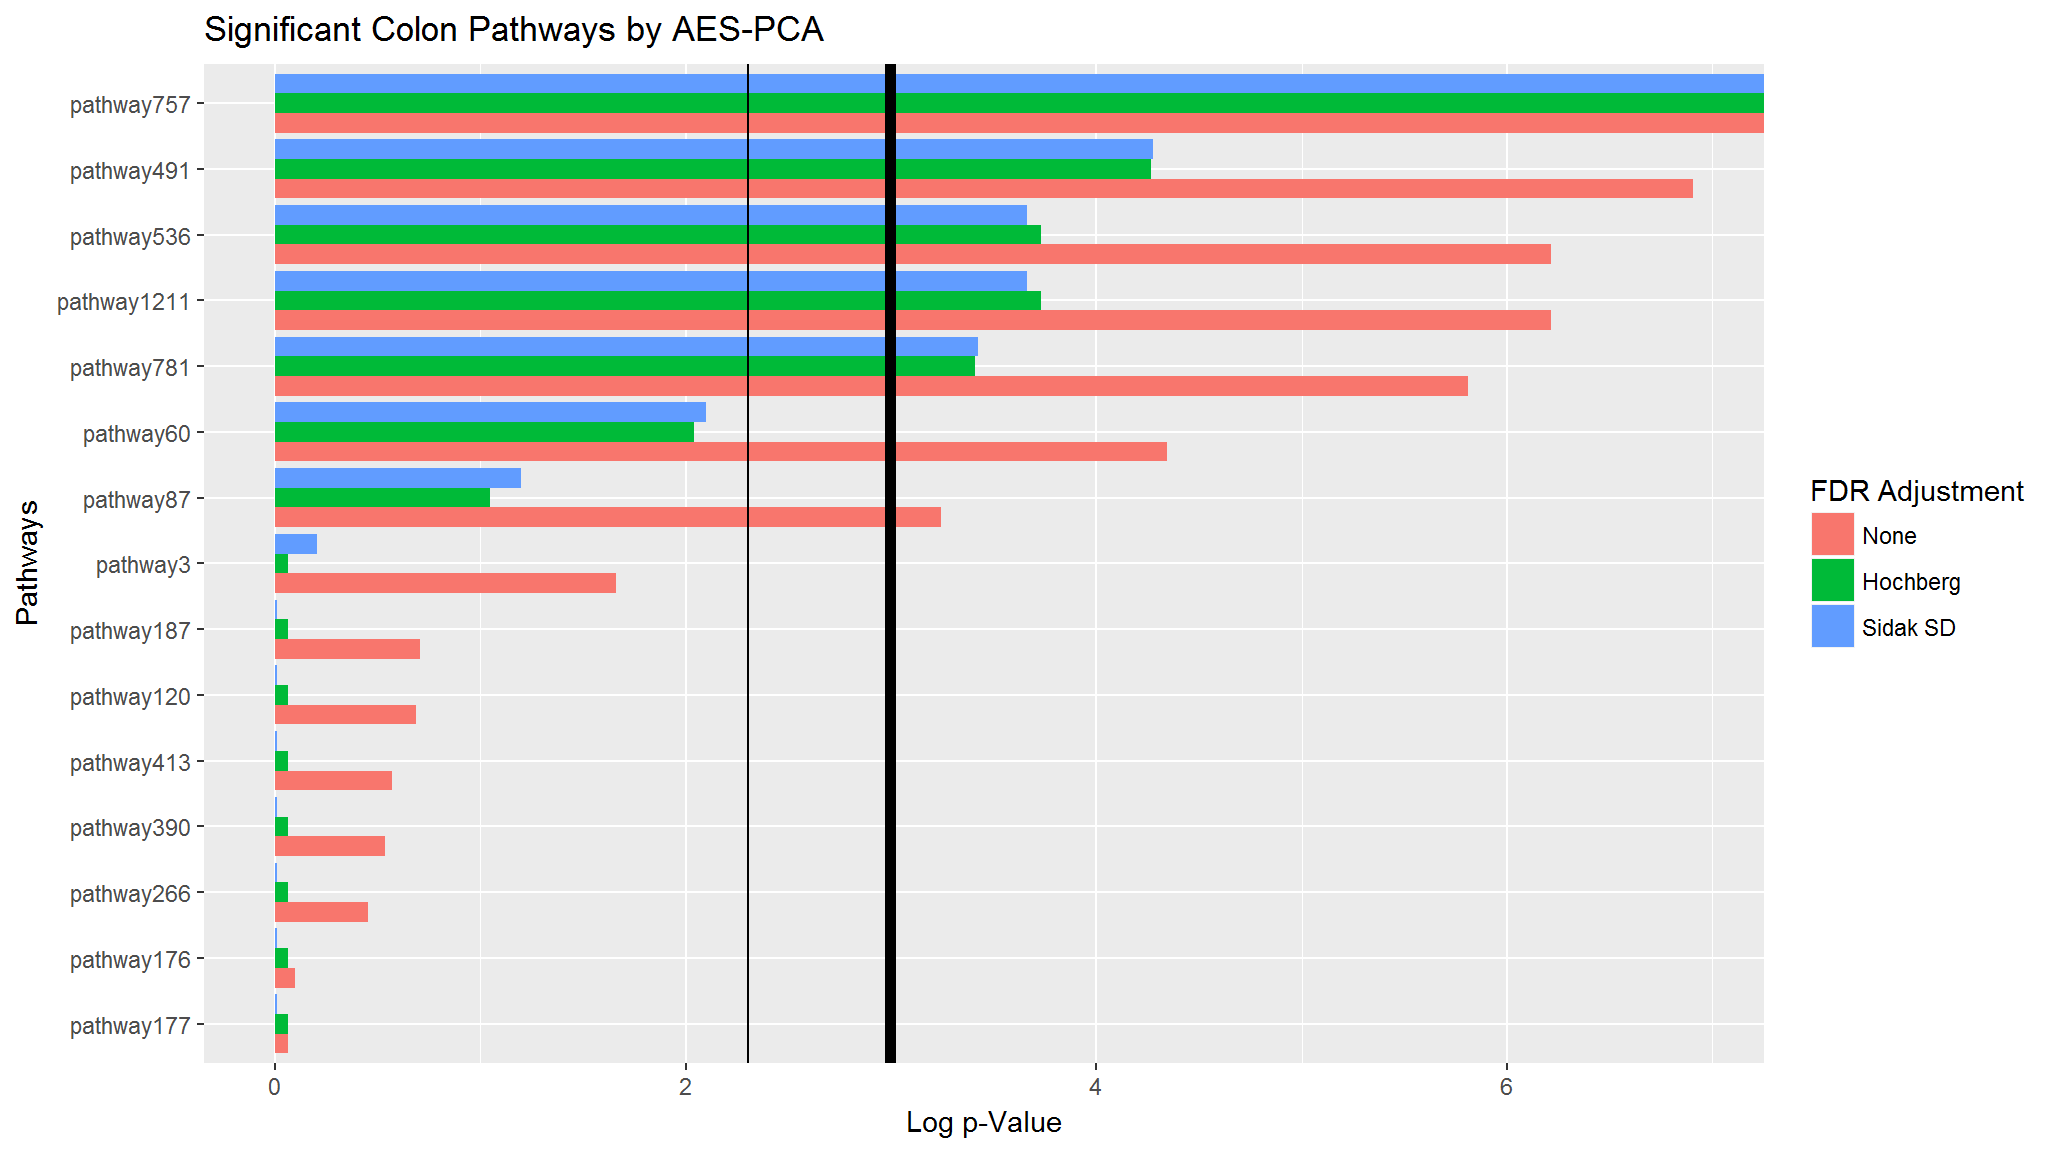
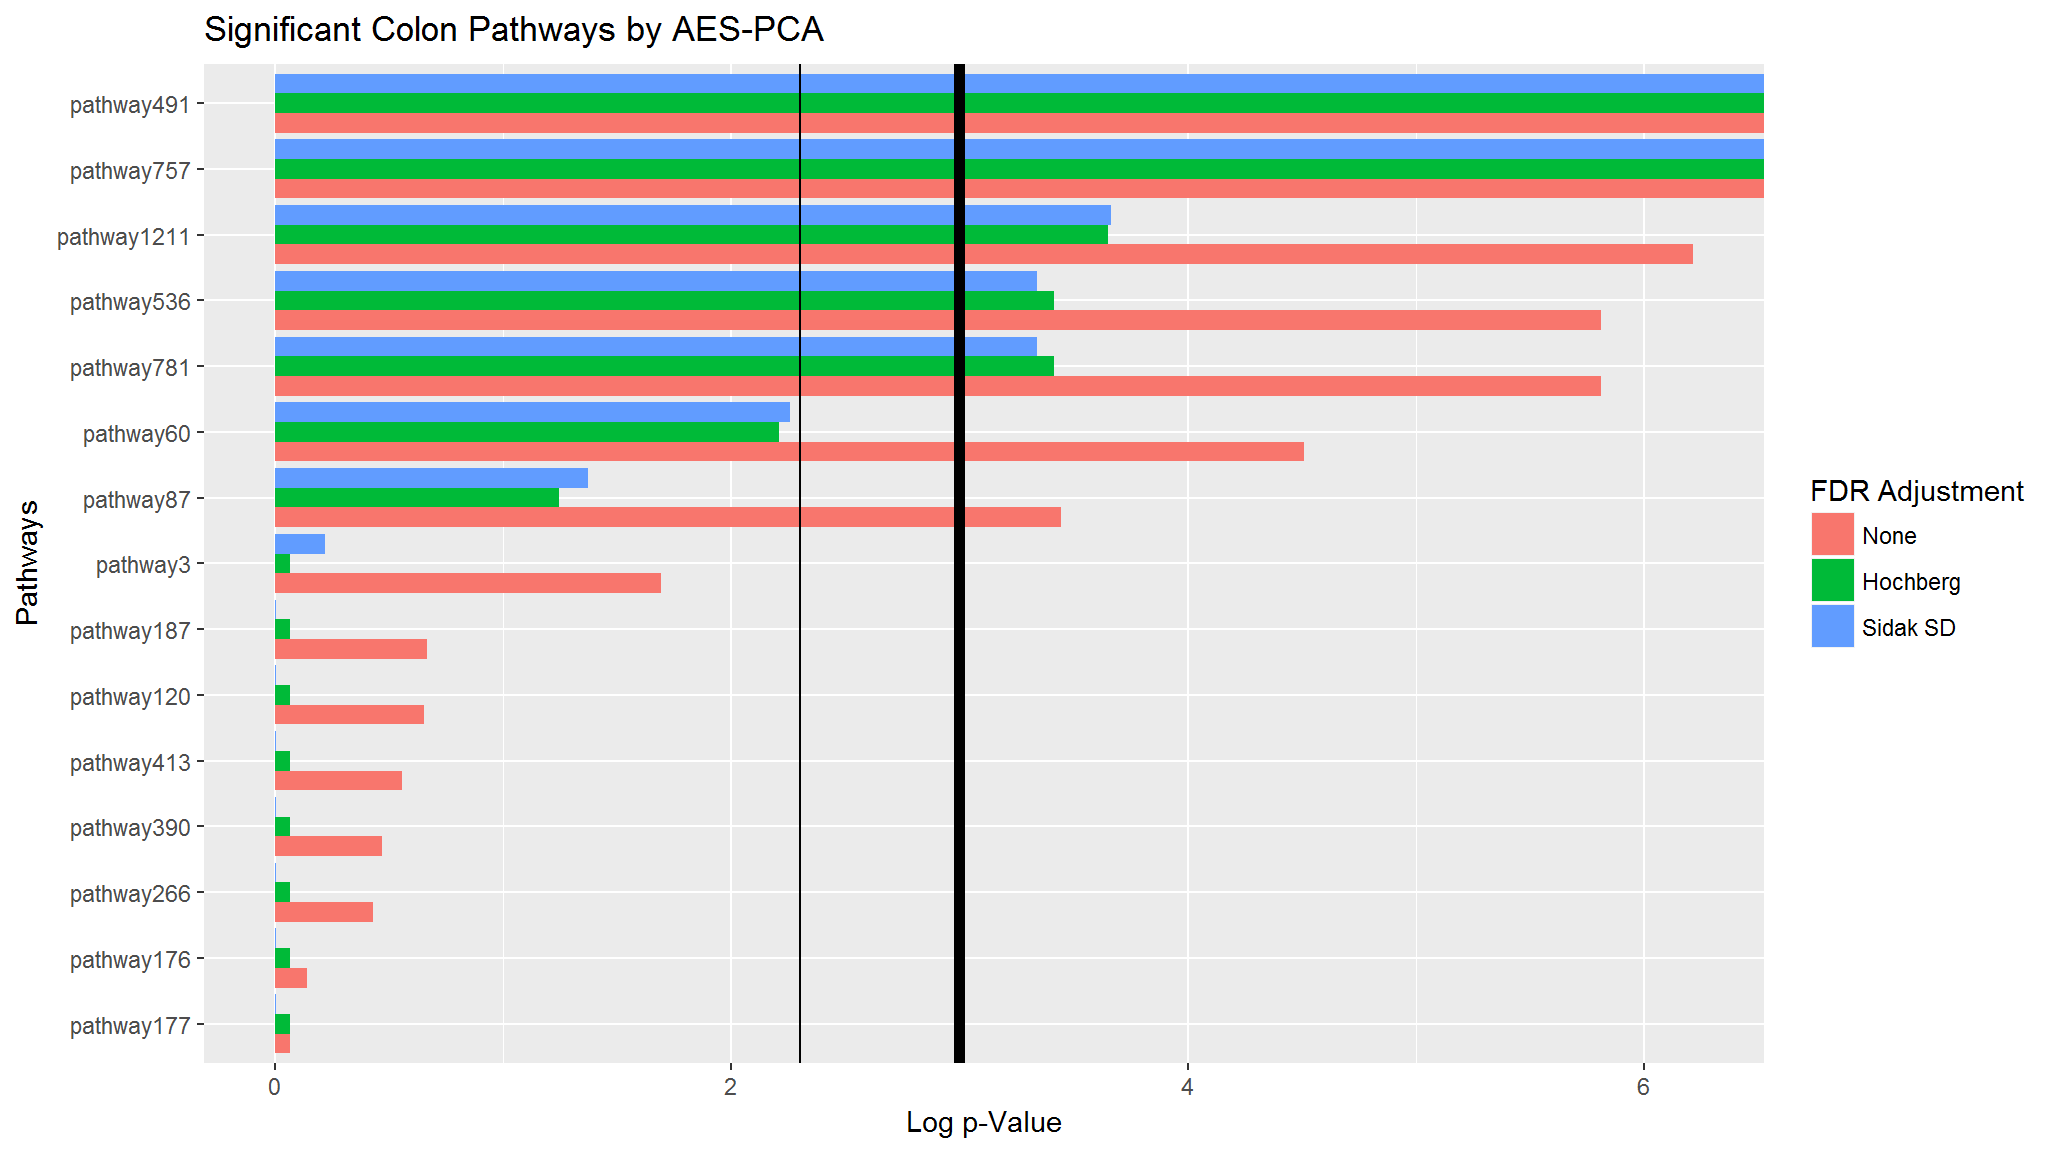
Rough draft of vignette chapter 4 complete.

diff --git a/docs/articles/C4-Methods_Walkthrough.html b/docs/articles/C4-Methods_Walkthrough.html
@@ -234,7 +234,8 @@
 <h3 class="hasAnchor">
 <a href="#survival-response" class="anchor"></a>Survival Response</h3>
 <p>We will use two of our available cores with the parallel computing approach. We will adjust the <span class="math inline">\(p\)</span>-values with the Hochberg (1988) and Sidak Step-Down FDR-adjustment procedures. For the tiny <span class="math inline">\(250 \times 656\)</span> assay with 15 associated pathways, this calculation is completed in 28 seconds. If we increase the number of permutations from 1000 to 10,000, this calculation takes 222 seconds (<span class="math inline">\(7.9\times\)</span> longer). Even though we increased the permutations tenfold, the function completed execution less than 10 times longer (as we mentioned above, roughly a quarter of the computing time is extracting the PCs from each pathway).</p>
-<div class="sourceCode"><pre class="sourceCode r"><code class="sourceCode r">surv_aes_pVals_df &lt;-<span class="st"> </span><span class="kw"><a href="../reference/AESPCA_pVals.html">AESPCA_pVals</a></span>(<span class="dt">object =</span> colon_OmicsSurv,
+<div class="sourceCode"><pre class="sourceCode r"><code class="sourceCode r">a &lt;-<span class="st"> </span><span class="kw">Sys.time</span>()
+surv_aes_pVals_df &lt;-<span class="st"> </span><span class="kw"><a href="../reference/AESPCA_pVals.html">AESPCA_pVals</a></span>(<span class="dt">object =</span> colon_OmicsSurv,
                                   <span class="dt">numReps =</span> <span class="dv">1000</span>,
                                   <span class="dt">parallel =</span> <span class="ot">TRUE</span>,
                                   <span class="dt">numCores =</span> <span class="dv">2</span>,
@@ -259,7 +260,9 @@
 <span class="co">#&gt; DONE</span>
 <span class="co">#&gt; </span>
 <span class="co">#&gt;  Part 3: Adjusting p-Values and Sorting Pathway p-Value Data Frame</span>
-<span class="co">#&gt; DONE</span></code></pre></div>
+<span class="co">#&gt; DONE</span>
+<span class="kw">Sys.time</span>() <span class="op">-</span><span class="st"> </span>a
+<span class="co">#&gt; Time difference of 26.45379 secs</span></code></pre></div>
 </div>
 <div id="regression-response" class="section level3">
 <h3 class="hasAnchor">
@@ -337,11 +340,12 @@
 <div id="supervised-pca-method-sources" class="section level3">
 <h3 class="hasAnchor">
 <a href="#supervised-pca-method-sources" class="anchor"></a>Supervised PCA Method Sources</h3>
+<p>While PCA is a commonly-applied <em>unsupervised</em> learning technique (i.e., response information is not necessary), one limitation of this method is that ignoring response information may yield to a first PC completely unrelated to outcome. In an effort to bolster this weakness, <a href="https://doi.org/10.1198/016214505000000628">Bair et al. (2006)</a> employed response information to rank predictors by the strength of their association. Then, they used PCA to extract PCs from feature design matrix subsets constructed from the predictors most strongly associated with the response. <a href="https://doi.org/10.1093/bioinformatics/btn458">Chen et al. (2008)</a> extend this technique to subsets of biological features within pre-defined biological pathways; they independently applied the Supervised PCA routine to each pathway in a pathway set. <a href="https://doi.org/10.1002/gepi.20532">Chen et al. (2010)</a> built on this work, testing if pathways were significantly associated with a given biological or clinical response.</p>
 </div>
 <div id="calculate-pathway-specific-model-p-values-1" class="section level3">
 <h3 class="hasAnchor">
 <a href="#calculate-pathway-specific-model-p-values-1" class="anchor"></a>Calculate Pathway-Specific Model <span class="math inline">\(p\)</span>-Values</h3>
-<p>For the Supervised PCA method, pathway <span class="math inline">\(p\)</span>-values are calculated</p>
+<p>As thoroughly discussed in Chen et al. (2008), the model fit and regression coefficient test statistics no longer come from their expected distributions. Necessarily, this is due to Supervised PCA’s strength in finding features already associated with outcome. Therefore, for the Supervised PCA method, pathway <span class="math inline">\(p\)</span>-values are calculated from a mixture of extreme value distributions. We use numerical optimization routines to calculate the maximum likelihood estimates of the mean, precision, and mixing proportion components of a mixture of two Gumbel extreme value distributions (for minima and maxima of a random normal sample). The <span class="math inline">\(p\)</span>-values from the pathways after permuting the response is used to estimate this null distribution, so the results may be less accurate for a very small set of pathways.</p>
 </div>
 <div id="supervised-pca-pros-and-cons" class="section level3">
 <h3 class="hasAnchor">
@@ -496,7 +500,7 @@ surv_spr_melt_df &lt;-<span class="st"> </span>surv_spr_pVals_df <span class="op
 <span class="st">  </span><span class="kw">geom_hline</span>(<span class="dt">yintercept =</span> <span class="op">-</span><span class="kw">log</span>(<span class="fl">0.1</span>)) <span class="op">+</span>
 <span class="st">  </span><span class="kw">coord_flip</span>()</code></pre></div>
 <p><img src="C4-Methods_Walkthrough_files/figure-html/surv_aes_pval_plot-1.png" width="100%" height="60%"></p>
-<p>For Supervised PCA, we see similar results to AES-PCA, but nearly half of the simulated pathways are significant. (Recall that the example data was curated so that seven of the 15 pathways would be significant.)</p>
+<p>For Supervised PCA, we see similar results to AES-PCA, but nearly half of the simulated pathways are significant. (Recall that the example data was curated so that seven of the 15 pathways would be significant.) Further note that the order of the significance may not necessarily be preserved.</p>
 <div class="sourceCode"><pre class="sourceCode r"><code class="sourceCode r"><span class="kw">ggplot</span>(surv_spr_melt_df) <span class="op">+</span>
 <span class="st">  </span><span class="kw">aes</span>(<span class="dt">x =</span> pathways, <span class="dt">y =</span> score, <span class="dt">fill =</span> variable) <span class="op">+</span>
 <span class="st">  </span><span class="kw">geom_bar</span>(<span class="dt">stat =</span> <span class="st">"identity"</span>, <span class="dt">position =</span> <span class="st">"dodge"</span>) <span class="op">+</span>
@@ -521,27 +525,17 @@ S_j := - \frac{1}{A}\sum\limits_{a = 1}^A \log(p_{aj}).
 <div class="sourceCode"><pre class="sourceCode r"><code class="sourceCode r"><span class="kw"><a href="../reference/topGenes.html">topGenes</a></span>(<span class="dt">object =</span> colon_OmicsSurv, <span class="dt">pVals_df =</span> surv_aes_pVals_df, <span class="dt">percentile =</span> <span class="fl">0.02</span>)
 <span class="co">#&gt; $summedRank</span>
 <span class="co">#&gt;   PIK3CA   PIK3R1    MAPK1   MAP2K1     NRAS     GRB2    MAPK3     HRAS </span>
-<span class="co">#&gt; 21.40372 21.40372 18.02608 17.98925 17.98925 17.98925 17.98925 17.98925 </span>
+<span class="co">#&gt; 24.88742 24.88742 21.55460 21.51955 21.51955 21.51955 21.51955 21.51955 </span>
 <span class="co">#&gt;     KRAS     SHC1      CRK   PIK3CB   PIK3R2 </span>
-<span class="co">#&gt; 17.98925 17.95241 17.95241 17.14169 17.14169 </span>
+<span class="co">#&gt; 21.51955 21.48450 21.48450 16.62061 16.62061 </span>
 <span class="co">#&gt; </span>
 <span class="co">#&gt; $averagedRank</span>
-<span class="co">#&gt;     FRS2    THEM4      KLB     DOK1    EIF4B    EIF4E   EIF4G1     FGF1 </span>
-<span class="co">#&gt; 6.284937 6.284937 6.284937 6.284937 6.284937 6.284937 6.284937 6.284937 </span>
-<span class="co">#&gt;     FGF2     FGF3     FGF4     FGF5     FGF6     FGF7     FGF8     FGF9 </span>
-<span class="co">#&gt; 6.284937 6.284937 6.284937 6.284937 6.284937 6.284937 6.284937 6.284937 </span>
-<span class="co">#&gt;    FGF10    FGFR1    FGFR3    FGFR2    FGFR4    FGF20    FGF22    GRB10 </span>
-<span class="co">#&gt; 6.284937 6.284937 6.284937 6.284937 6.284937 6.284937 6.284937 6.284937 </span>
-<span class="co">#&gt;      INS     INSR     IRS1    PDE3B   PRKAG2    CAB39   PRKAG3     TLR9 </span>
-<span class="co">#&gt; 6.284937 6.284937 6.284937 6.284937 6.284937 6.284937 6.284937 6.284937 </span>
-<span class="co">#&gt;    PPM1A   STRADB   PRKAA1   PRKAA2   PRKAB1   PRKAB2   PRKAG1    RPTOR </span>
-<span class="co">#&gt; 6.284937 6.284937 6.284937 6.284937 6.284937 6.284937 6.284937 6.284937 </span>
-<span class="co">#&gt;    TRIB3     RHEB     RPS6    MLST8    STK11     TSC1     TSC2    YWHAB </span>
-<span class="co">#&gt; 6.284937 6.284937 6.284937 6.284937 6.284937 6.284937 6.284937 6.284937 </span>
-<span class="co">#&gt;    FGF23   CAB39L     IRS2    FGF18    FGF17   STRADA       KL     CDK1 </span>
-<span class="co">#&gt; 6.284937 6.284937 6.284937 6.284937 6.284937 6.284937 6.284937 6.284937 </span>
-<span class="co">#&gt;    FGF19 </span>
-<span class="co">#&gt; 6.284937</span></code></pre></div>
+<span class="co">#&gt;    EPHB4    EFNA5      PXN    CDC42    EFNB3     RRAS     GRB7    EPHB3 </span>
+<span class="co">#&gt; 8.266813 8.266813 8.266813 8.266813 8.266813 8.266813 8.266813 8.266813 </span>
+<span class="co">#&gt;    EFNB1     DNM1    GRIA1    EPHB1    ROCK1    ITSN1    RAP1A     RAC1 </span>
+<span class="co">#&gt; 8.266813 8.266813 8.266813 8.266813 8.266813 8.266813 8.266813 8.266813 </span>
+<span class="co">#&gt;    RAP1B    EFNB2     WASL       TF    KALRN    RASA1 </span>
+<span class="co">#&gt; 8.266813 8.266813 8.266813 8.266813 8.266813 8.266813</span></code></pre></div>
 </div>
 </div>
   </div>
